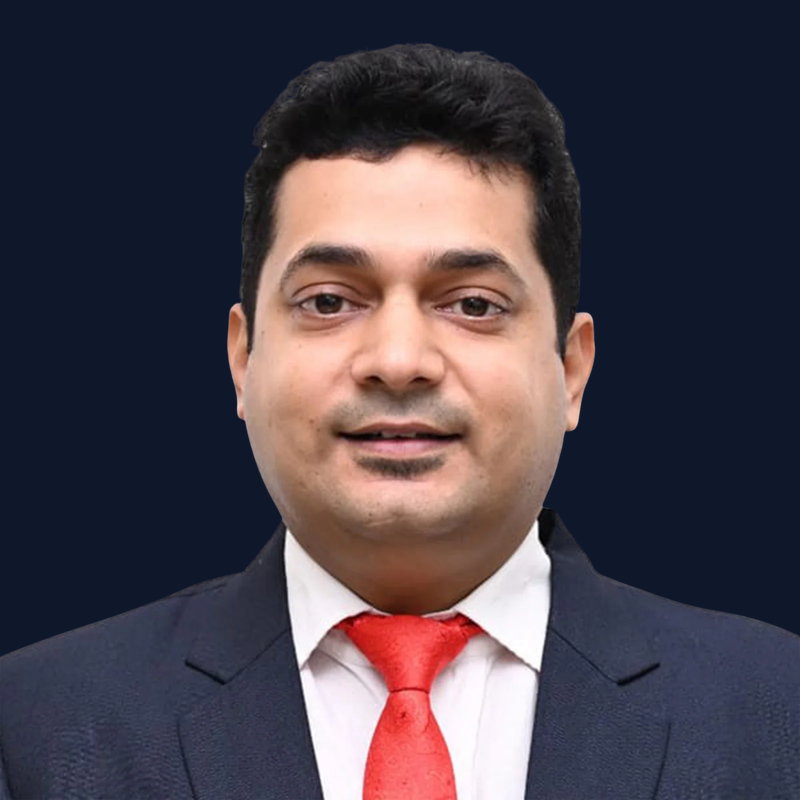
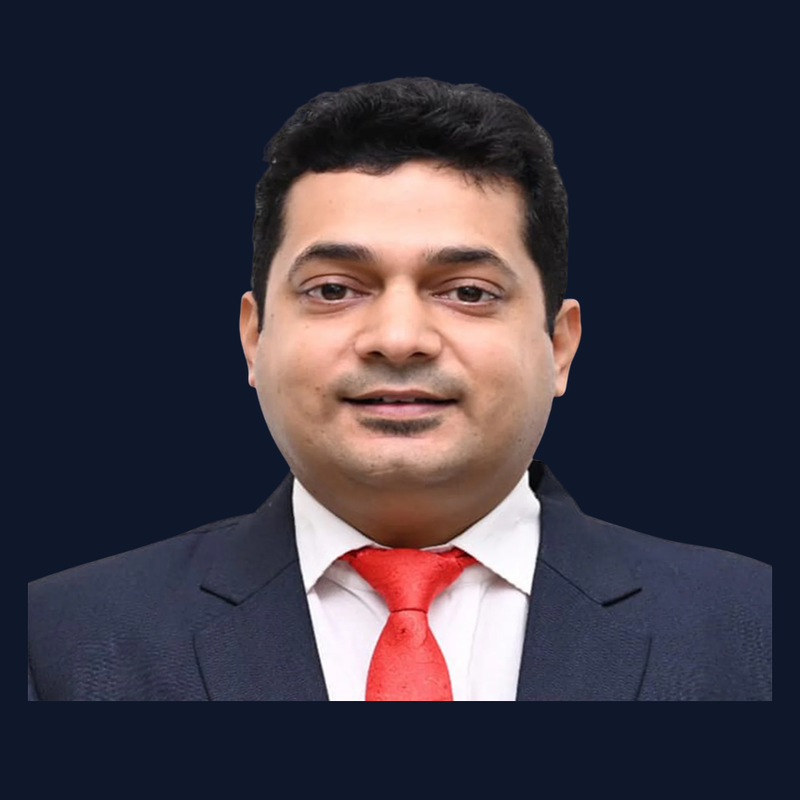
added all data

diff --git a/components/OrganizingCommittee.tsx b/components/OrganizingCommittee.tsx
@@ -8,21 +8,21 @@ const committee = [
     affiliation: 'IIT Roorkee',
     department: 'Department of Mechanical and Industrial Engineering',
     image: '/Organzing-commitee/1.png',
-    imageClass: 'object-contain p-1',
+
   },
   {
     name: 'Prof. Varun Sharma',
     affiliation: 'IIT Roorkee',
     department: 'Department of Mechanical and Industrial Engineering',
     image: '/Organzing-commitee/2.png',
-    imageClass: 'object-contain p-1',
+
   },
   {
     name: 'Prof. Amit Choudhary',
     affiliation: 'IIT Roorkee',
     department: 'Department of Mechanical and Industrial Engineering',
     image: '/Organzing-commitee/3.png',
-    imageClass: 'object-cover object-[center_20%] scale-110',
+
   },
 ];
 
@@ -46,14 +46,13 @@ export default function OrganizingCommittee() {
               key={member.name}
               className="group flex flex-col items-center text-center bg-gradient-to-br from-slate-900/80 to-slate-800/60 border-2 border-cyan-500/40 rounded-2xl p-8 hover:border-cyan-400/80 hover:shadow-lg hover:shadow-cyan-500/25 transition-all duration-300"
             >
-              <div className="relative h-44 w-44 overflow-hidden rounded-full border-2 border-cyan-500/60 bg-slate-900 shadow-[0_0_24px_rgba(34,211,238,0.2)] group-hover:border-cyan-400/90 group-hover:shadow-[0_0_32px_rgba(34,211,238,0.35)] transition-all duration-300">
+              <div className="relative h-64 w-full overflow-hidden rounded-2xl bg-gradient-to-b from-slate-900 to-slate-800 border border-cyan-500/40">
                 <Image
                   src={member.image}
                   alt={member.name}
-                  width={176}
-                  height={176}
-                  unoptimized
-                  className={`h-full w-full transition-transform duration-300 group-hover:scale-110 ${member.imageClass}`}
+                  fill
+                  priority={member.name === 'Prof. Akshay Dwivedi'}
+                  className="object-cover object-top transition-transform duration-500 group-hover:scale-110"
                 />
               </div>
 
@@ -61,7 +60,7 @@ export default function OrganizingCommittee() {
                 {member.name}
               </h3>
               <p className="mt-1 text-sm font-semibold text-purple-400">{member.affiliation}</p>
-              <p className="mt-3 text-sm text-gray-400 leading-relaxed">{member.department}</p>
+              <p className="mt-3 text-sm text-white leading-relaxed whitespace-nowrap">{member.department}</p>
             </article>
           ))}
         </div>

diff --git a/components/Header.tsx b/components/Header.tsx
@@ -5,19 +5,19 @@ import Link from 'next/link';
 import { Menu, X } from 'lucide-react';
 import Image from 'next/image';
 import SaeIndiaLogo from '@/components/SaeIndiaLogo';
-import { NAV_LINKS, SECTION_IDS, SCROLL_SPY_OFFSET } from '@/lib/sections';
+import { NAV_LINKS, SECTION_IDS, SCROLL_SPY_OFFSET, SectionId } from '@/lib/sections';
 
 export default function Header() {
   const [isOpen, setIsOpen] = useState(false);
   const [isScrolled, setIsScrolled] = useState(false);
-  const [activeSection, setActiveSection] = useState<string>('hero');
+  const [activeSection, setActiveSection] = useState<SectionId>('hero');
 
   useEffect(() => {
     const updateScrollState = () => {
       setIsScrolled(window.scrollY > 50);
 
       const scrollPosition = window.scrollY + SCROLL_SPY_OFFSET;
-      let current = SECTION_IDS[0];
+      let current: SectionId = SECTION_IDS[0];
 
       for (const id of SECTION_IDS) {
         const section = document.getElementById(id);